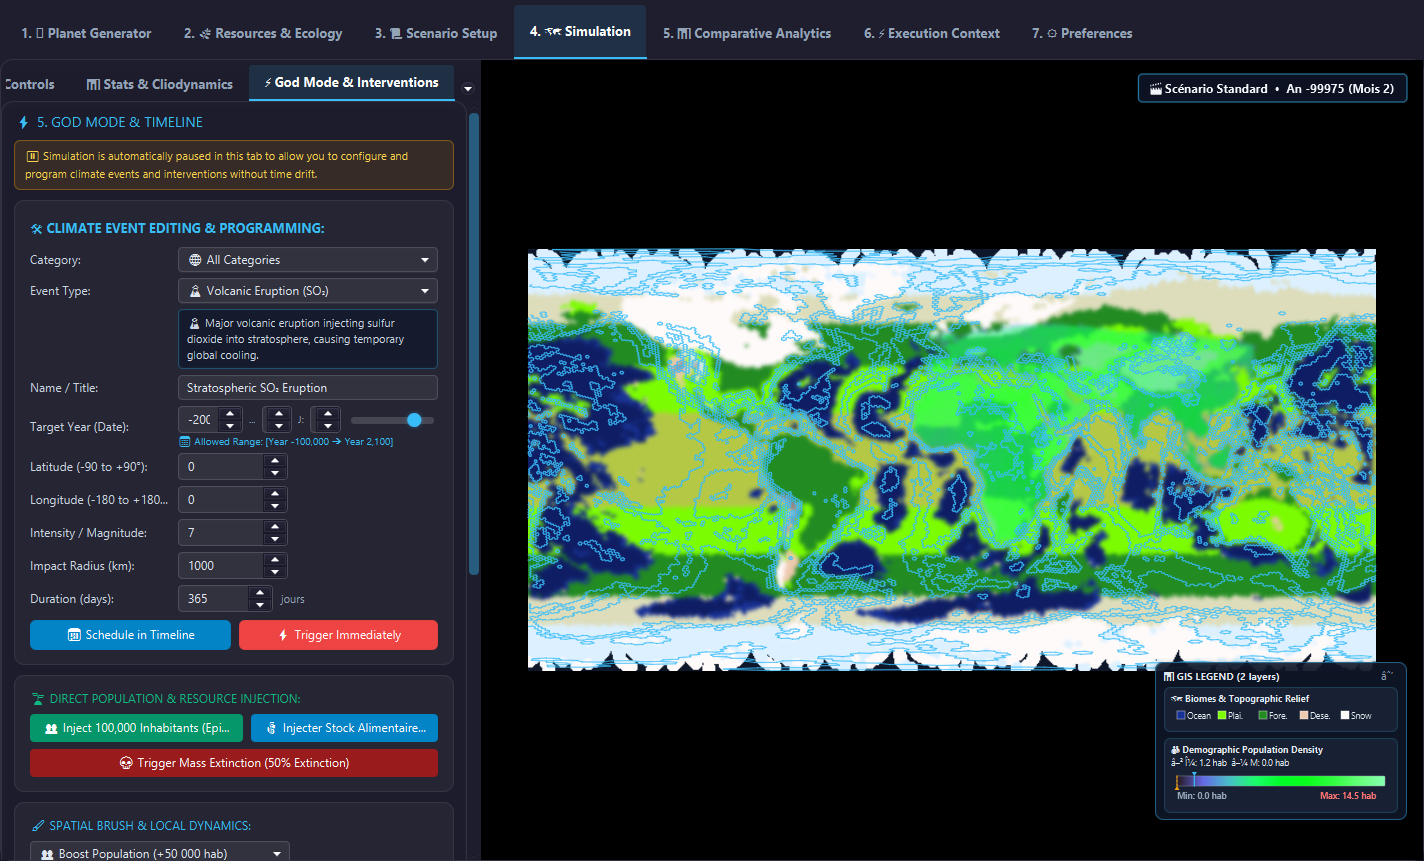
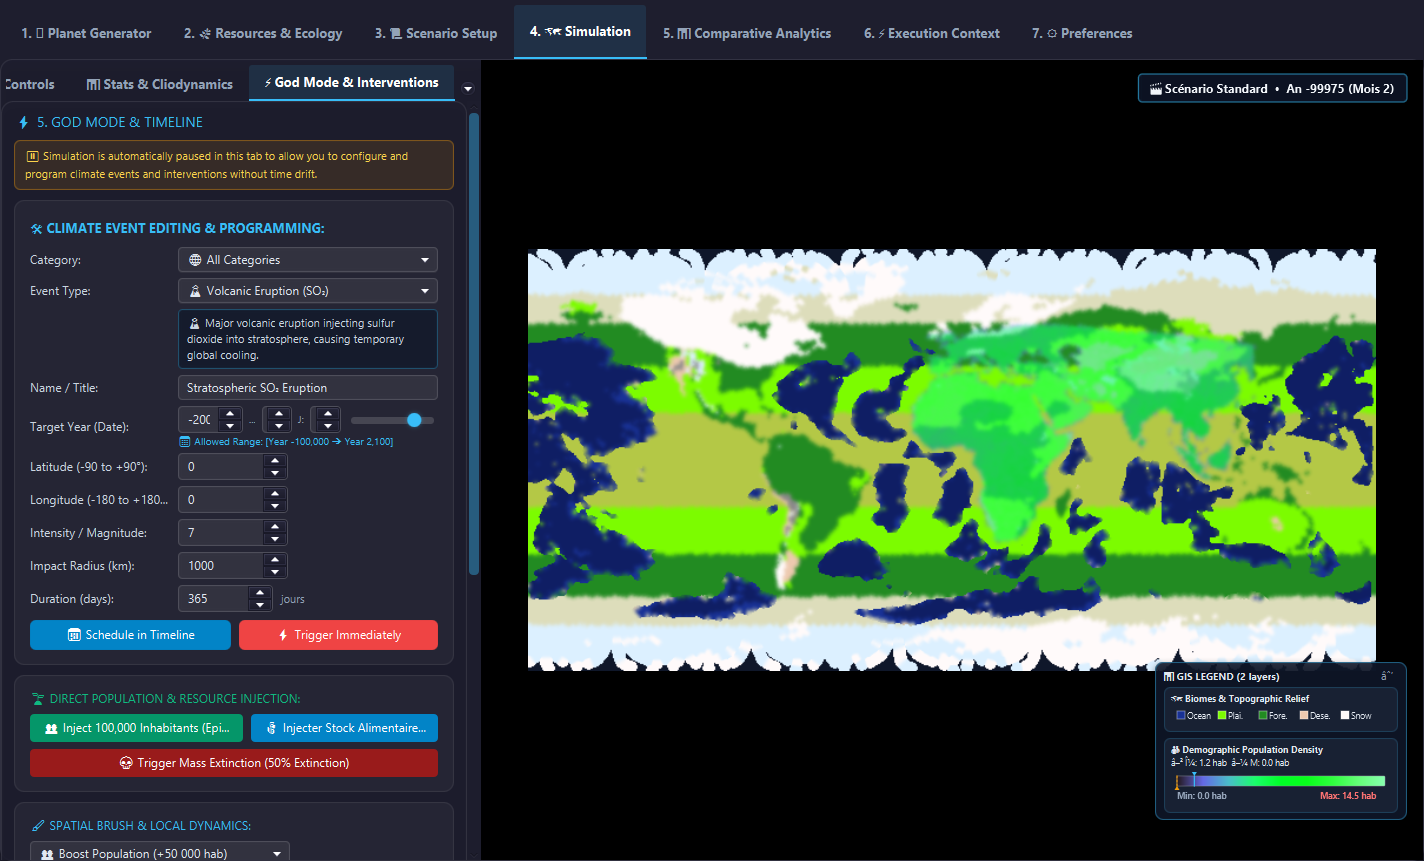
fix(ui,renderers): crisp land-water masking, suppress marine bathymetric contours, and regenerate H3 res-4 screenshots

Changed region(s): [[0.3708, 0.2718, 0.9888, 0.7851]]

diff --git a/src/main/java/org/ether/society/ui/renderers/H3SmoothMapRasterizer.java b/src/main/java/org/ether/society/ui/renderers/H3SmoothMapRasterizer.java
@@ -10,11 +10,13 @@ import javafx.scene.image.PixelWriter;
 import javafx.scene.image.WritableImage;
 import javafx.scene.paint.Color;
 import org.ether.society.database.H3Cell;
+import org.ether.society.model.Biome;
 
 import java.util.List;
 
 /**
  * 2D spatial rasterizer for continuous smooth texture interpolation across H3 cells.
+ * Enforces crisp land/ocean thermodynamic boundaries to prevent cross-coastal biome bleeding.
  *
  * @author Silvere Martin-Michiellot
  * @version 1.0.0-beta.3
@@ -31,22 +33,27 @@ public final class H3SmoothMapRasterizer {
                                                    double minLat, double maxLat, double minLng, double maxLng) {
         if (cells == null || cells.isEmpty()) return null;
 
-        int width = 720;
-        int height = 360;
+        int width = cells.size() > 100000 ? 1440 : 720;
+        int height = cells.size() > 100000 ? 720 : 360;
         WritableImage img = new WritableImage(width, height);
         PixelWriter pw = img.getPixelWriter();
 
-        float[][] rGrid = new float[height][width];
-        float[][] gGrid = new float[height][width];
-        float[][] bGrid = new float[height][width];
-        float[][] wGrid = new float[height][width];
+        float[][] rLand = new float[height][width];
+        float[][] gLand = new float[height][width];
+        float[][] bLand = new float[height][width];
+        float[][] wLand = new float[height][width];
+
+        float[][] rWater = new float[height][width];
+        float[][] gWater = new float[height][width];
+        float[][] bWater = new float[height][width];
+        float[][] wWater = new float[height][width];
 
         double spanLng = maxLng - minLng;
         double spanLat = maxLat - minLat;
         if (spanLng <= 0) spanLng = 360.0;
         if (spanLat <= 0) spanLat = 180.0;
 
-        double kernelRadiusPx = Math.max(3.0, ((double) width / Math.sqrt(cells.size())) * 1.6);
+        double kernelRadiusPx = Math.max(2.5, ((double) width / Math.sqrt(cells.size())) * 1.5);
         int rInt = (int) Math.ceil(kernelRadiusPx);
 
         for (int i = 0; i < cells.size(); i++) {
@@ -57,6 +64,9 @@ public final class H3SmoothMapRasterizer {
 
             int cx = (int) Math.clamp(Math.floor(((lng - minLng) / spanLng) * width), 0, width - 1);
             int cy = (int) Math.clamp(Math.floor(((maxLat - lat) / spanLat) * height), 0, height - 1);
+
+            Biome biome = cell.getBiome();
+            boolean isWater = (biome == Biome.OCEAN || biome == Biome.DEEP_OCEAN || (cell.getElevation() != null && cell.getElevation() <= 0));
 
             Color col = colorResolver.getBufferOrCellColor(cell);
             if (showHillshading || showSolarTerminator) {
@@ -86,10 +96,17 @@ public final class H3SmoothMapRasterizer {
                     double dist = Math.sqrt(dx * dx + dy * dy);
                     if (dist <= kernelRadiusPx) {
                         float w = (float) Math.pow(1.0 - (dist / kernelRadiusPx), 2.0);
-                        rGrid[py][px] += r * w;
-                        gGrid[py][px] += g * w;
-                        bGrid[py][px] += b * w;
-                        wGrid[py][px] += w;
+                        if (isWater) {
+                            rWater[py][px] += r * w;
+                            gWater[py][px] += g * w;
+                            bWater[py][px] += b * w;
+                            wWater[py][px] += w;
+                        } else {
+                            rLand[py][px] += r * w;
+                            gLand[py][px] += g * w;
+                            bLand[py][px] += b * w;
+                            wLand[py][px] += w;
+                        }
                     }
                 }
             }
@@ -97,11 +114,22 @@ public final class H3SmoothMapRasterizer {
 
         for (int py = 0; py < height; py++) {
             for (int px = 0; px < width; px++) {
-                float w = wGrid[py][px];
-                if (w > 0.0001f) {
-                    float r = Math.min(1.0f, Math.max(0.0f, rGrid[py][px] / w));
-                    float g = Math.min(1.0f, Math.max(0.0f, gGrid[py][px] / w));
-                    float b = Math.min(1.0f, Math.max(0.0f, bGrid[py][px] / w));
+                float wl = wLand[py][px];
+                float ww = wWater[py][px];
+                if (ww > wl && ww > 0.0001f) {
+                    float r = Math.clamp(rWater[py][px] / ww, 0.0f, 1.0f);
+                    float g = Math.clamp(gWater[py][px] / ww, 0.0f, 1.0f);
+                    float b = Math.clamp(bWater[py][px] / ww, 0.0f, 1.0f);
+                    pw.setColor(px, py, Color.color(r, g, b, 1.0));
+                } else if (wl > 0.0001f) {
+                    float r = Math.clamp(rLand[py][px] / wl, 0.0f, 1.0f);
+                    float g = Math.clamp(gLand[py][px] / wl, 0.0f, 1.0f);
+                    float b = Math.clamp(bLand[py][px] / wl, 0.0f, 1.0f);
+                    pw.setColor(px, py, Color.color(r, g, b, 1.0));
+                } else if (ww > 0.0001f) {
+                    float r = Math.clamp(rWater[py][px] / ww, 0.0f, 1.0f);
+                    float g = Math.clamp(gWater[py][px] / ww, 0.0f, 1.0f);
+                    float b = Math.clamp(bWater[py][px] / ww, 0.0f, 1.0f);
                     pw.setColor(px, py, Color.color(r, g, b, 1.0));
                 } else {
                     pw.setColor(px, py, Color.rgb(15, 23, 42));

diff --git a/src/main/java/org/ether/society/CaptureRealShots.java b/src/main/java/org/ether/society/CaptureRealShots.java
@@ -185,7 +185,7 @@ public class CaptureRealShots extends Application {
                     @SuppressWarnings("unchecked")
                     ComboBox<Integer> resCombo = (ComboBox<Integer>) resComboField.get(setupPanel);
                     if (resCombo != null) {
-                        resCombo.setValue(3);
+                        resCombo.setValue(4);
                     }
                     // Select cold start to ensure fresh computation with full layers
                     Field snapField = ScenarioSetupPanel.class.getDeclaredField("snapshotInspector");
@@ -243,7 +243,7 @@ public class CaptureRealShots extends Application {
                     System.err.println("Simulation Tab reached!");
                     break;
                 }
-                if (System.currentTimeMillis() - startWait > 60000) {
+                if (System.currentTimeMillis() - startWait > 180000) {
                     System.err.println("Timed out waiting for Simulation Tab, forcing selection of Tab 3.");
                     runOnFx(() -> mainTabPane.getSelectionModel().select(3));
                     break;
@@ -337,7 +337,7 @@ public class CaptureRealShots extends Application {
                 mapCanvas.resetView();
                 mapCanvas.setActiveDisplayModes(List.of(DisplayMode.BIOME, DisplayMode.POPULATION));
                 mapCanvas.setShowHexGrid(false);
-                mapCanvas.setShowContours(true);
+                mapCanvas.setShowContours(false);
                 controlPanel.updateActiveLayerUI();
                 mapCanvas.draw();
             });

diff --git a/src/main/java/org/ether/society/ui/renderers/H3VectorLayerRenderer.java b/src/main/java/org/ether/society/ui/renderers/H3VectorLayerRenderer.java
@@ -172,6 +172,9 @@ public class H3VectorLayerRenderer {
                     double nElev = neighbor.getElevation() != null ? neighbor.getElevation() : 0;
                     int nLevel = (int) (nElev / step);
 
+                    // Skip bathymetric contour lines when both cells are submerged
+                    if (elev <= 0 && nElev <= 0) continue;
+
                     if (level > nLevel) {
                         long edge = h3Service.getDirectedEdge(cell.getH3Index(), nIdx);
                         List<LatLng> boundary = h3Service.getEdgeBoundary(edge);
